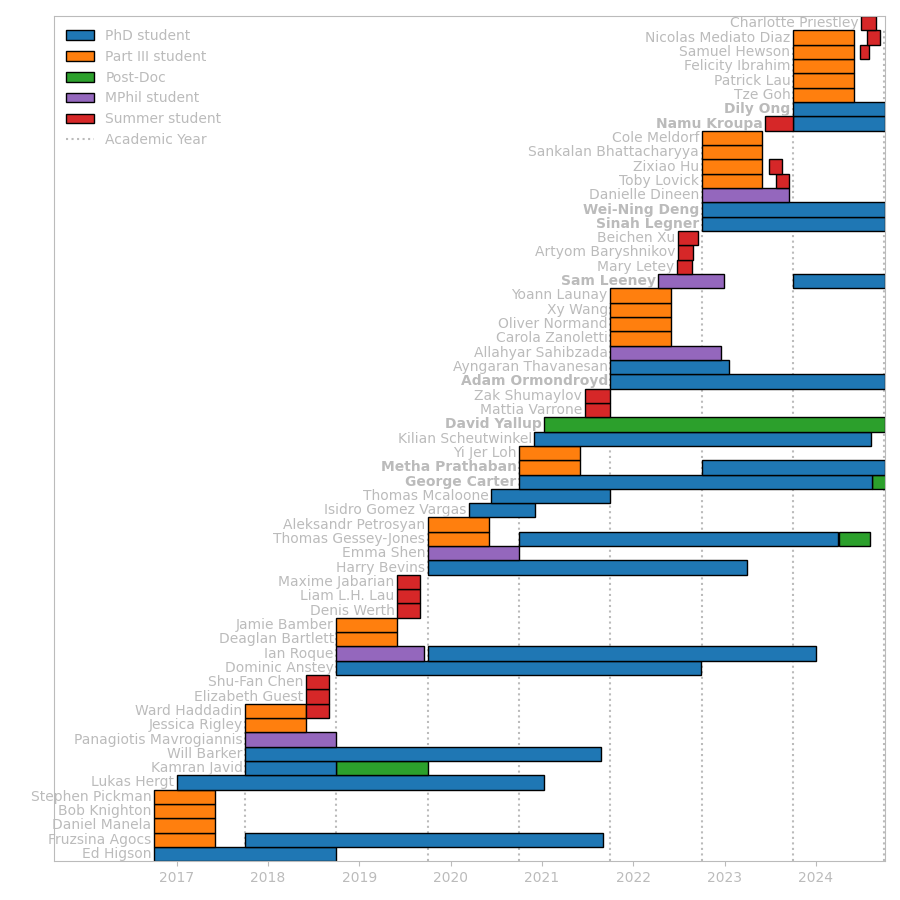
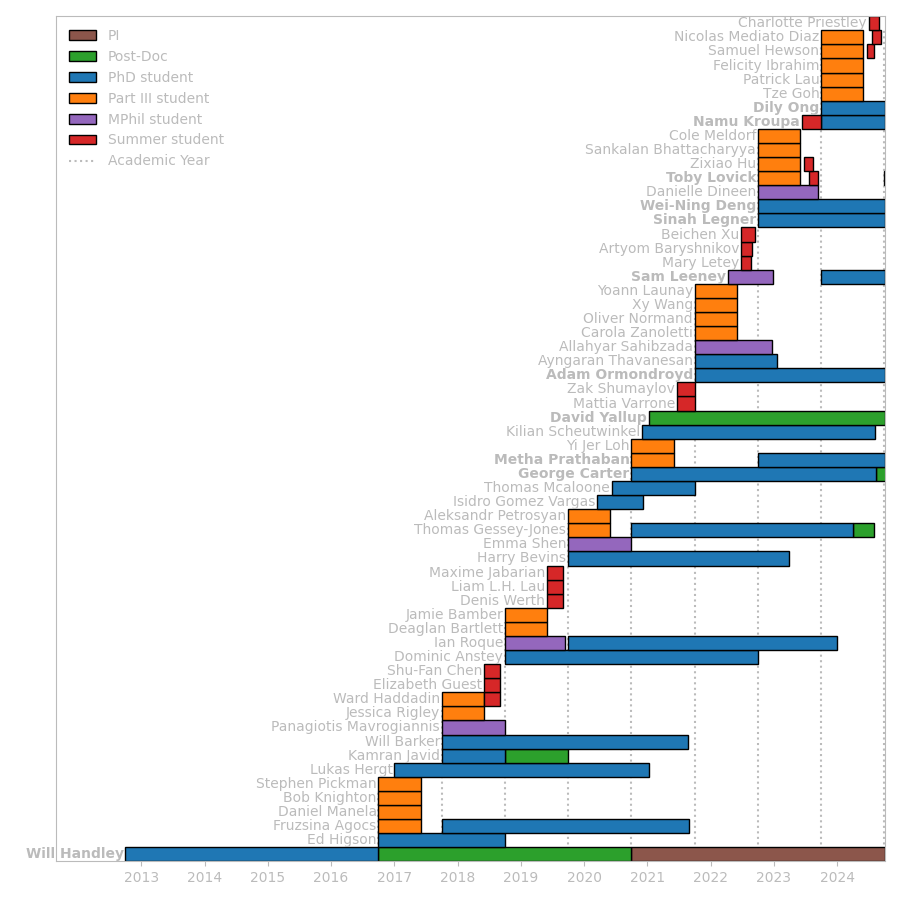
Updated group timeline

Changed region(s): [[0.0311, 0.0, 0.9956, 0.9956], [0.0622, 0.0311, 0.2489, 0.1867]]

diff --git a/assets/group/group.html b/assets/group/group.html
@@ -19,6 +19,35 @@
 }
 </style>
 <div class="wrapper" style="margin-top:30pt">
+  <h1>PI</h1>
+  <div class="grid">
+    <div class="grid-item">
+      <img src="/assets/group/images/will_handley.jpg" />
+    </div>
+    <div class="grid-item">
+      <p>
+        <font size="+2">Will Handley</font>
+      </p>
+      <p>
+        <ul>
+          <li>PI from Oct 2020</li>
+          <li>Post-Doc from Oct 2016 to Oct 2020</li>
+          <li>PhD student from Oct 2012 to Sep 2016</li>
+          <li>
+            <a href="https://arxiv.org/search/?query=handley%2C+w%3B+Handley%2CW&searchtype=author">Group research papers (146)</a>
+          </li>
+          <li>Links:</li>
+          <ul>
+            <li>
+              <a href="https://willhandley.co.uk">Webpage</a>
+            </li>
+          </ul>
+        </ul>
+      </p>
+    </div>
+  </div>
+</div>
+<div class="wrapper" style="margin-top:30pt">
   <h1>Post-Docs</h1>
   <div class="grid">
     <div class="grid-item">
@@ -32,7 +61,7 @@
         <ul>
           <li>Post-Doc from Jan 2021</li>
           <li>
-            <a href="https://arxiv.org/search/?query=handley%2C+w%3B+Yallup%2CD&searchtype=author">Shared research papers (5)</a>
+            <a href="https://arxiv.org/search/?query=handley%2C+w%3B+Yallup%2CD&searchtype=author">Group research papers (5)</a>
           </li>
           <li>Links:</li>
           <ul>
@@ -63,7 +92,7 @@
           <li>PhD student from Oct 2023<ul><li>co-supervised with <a href="http://www.eng.cam.ac.uk/profiles/gc121">Gábor Csányi</a></li></ul></li>
           <li>Summer student from Jun 2023 to Sep 2023</li>
           <li>
-            <a href="https://arxiv.org/search/?query=handley%2C+w%3B+Kroupa%2CN&searchtype=author">Shared research papers (2)</a>
+            <a href="https://arxiv.org/search/?query=handley%2C+w%3B+Kroupa%2CN&searchtype=author">Group research papers (2)</a>
           </li>
         </ul>
       </p>
@@ -93,7 +122,7 @@
           <li>PhD student from Oct 2023<ul><li>co-supervised with <a href="https://www.phy.cam.ac.uk/directory/dr-eloy-de-lera-acedo">Eloy de Lera Acedo</a>, <a href="https://harrybevins.co.uk/">Harry Bevins</a></li></ul></li>
           <li>MPhil student from Apr 2022 to Dec 2022<ul><li>co-supervised with <a href="https://www.phy.cam.ac.uk/directory/dr-eloy-de-lera-acedo">Eloy de Lera Acedo</a></li></ul></li>
           <li>
-            <a href="https://arxiv.org/search/?query=handley%2C+w%3B+Leeney%2CS&searchtype=author">Shared research papers (2)</a>
+            <a href="https://arxiv.org/search/?query=handley%2C+w%3B+Leeney%2CS&searchtype=author">Group research papers (2)</a>
           </li>
           <li>Links:</li>
           <ul>
@@ -132,7 +161,7 @@
           <li>PhD student from Oct 2022</li>
           <li>Part III student from Oct 2020 to Jun 2021</li>
           <li>
-            <a href="https://arxiv.org/search/?query=handley%2C+w%3B+Prathaban%2CM&searchtype=author">Shared research papers (2)</a>
+            <a href="https://arxiv.org/search/?query=handley%2C+w%3B+Prathaban%2CM&searchtype=author">Group research papers (2)</a>
           </li>
         </ul>
       </p>
@@ -148,7 +177,7 @@
         <ul>
           <li>PhD student from Oct 2022</li>
           <li>
-            <a href="https://arxiv.org/search/?query=handley%2C+w%3B+Deng%2CW&searchtype=author">Shared research papers (1)</a>
+            <a href="https://arxiv.org/search/?query=handley%2C+w%3B+Deng%2CW&searchtype=author">Group research papers (1)</a>
           </li>
         </ul>
       </p>
@@ -164,7 +193,7 @@
         <ul>
           <li>PhD student from Oct 2021<ul><li>co-supervised with <a href="https://www.phy.cam.ac.uk/directory/lasenbya">Anthony Lasenby</a>, <a href="https://www.phy.cam.ac.uk/directory/hobsonm">Mike Hobson</a></li></ul></li>
           <li>
-            <a href="https://arxiv.org/search/?query=handley%2C+w%3B+Ormondroyd%2CA&searchtype=author">Shared research papers (1)</a>
+            <a href="https://arxiv.org/search/?query=handley%2C+w%3B+Ormondroyd%2CA&searchtype=author">Group research papers (1)</a>
           </li>
           <li>Links:</li>
           <ul>
@@ -196,7 +225,7 @@
           <li>PhD student from Oct 2020 to Mar 2024<ul><li>co-supervised with <a href="https://www.phy.cam.ac.uk/directory/dr-eloy-de-lera-acedo">Eloy de Lera Acedo</a>, <a href="https://www.ast.cam.ac.uk/people/Anastasia.Fialkov">Anastasia Fialkov</a></li></ul></li>
           <li>Part III student from Oct 2019 to Jun 2020</li>
           <li>
-            <a href="https://arxiv.org/search/?query=handley%2C+w%3B+Gessey-Jones%2CT&searchtype=author">Shared research papers (10)</a>
+            <a href="https://arxiv.org/search/?query=handley%2C+w%3B+Gessey-Jones%2CT&searchtype=author">Group research papers (10)</a>
           </li>
           <li>Links:</li>
           <ul>
@@ -226,7 +255,7 @@
           <li>Post-Doc from Oct 2018 to Oct 2019</li>
           <li>PhD student from Oct 2017 to Sep 2018</li>
           <li>
-            <a href="https://arxiv.org/search/?query=handley%2C+w%3B+Javid%2CK&searchtype=author">Shared research papers (2)</a>
+            <a href="https://arxiv.org/search/?query=handley%2C+w%3B+Javid%2CK&searchtype=author">Group research papers (2)</a>
           </li>
           <li>Links:</li>
           <ul>
@@ -260,7 +289,7 @@
         <ul>
           <li>PhD student from Oct 2021 to Jan 2023<ul><li>co-supervised with <a href="https://www.nottingham.ac.uk/physics/people/david.stefanyszyn">David Stefanyszyn</a></li></ul></li>
           <li>
-            <a href="https://arxiv.org/search/?query=handley%2C+w%3B+Thavanesan%2CA&searchtype=author">Shared research papers (1)</a>
+            <a href="https://arxiv.org/search/?query=handley%2C+w%3B+Thavanesan%2CA&searchtype=author">Group research papers (1)</a>
           </li>
         </ul>
       </p>
@@ -276,7 +305,7 @@
         <ul>
           <li>PhD student from Dec 2020 to Aug 2024<ul><li>co-supervised with <a href="https://www.phy.cam.ac.uk/directory/dr-eloy-de-lera-acedo">Eloy de Lera Acedo</a></li></ul></li>
           <li>
-            <a href="https://arxiv.org/search/?query=handley%2C+w%3B+Scheutwinkel%2CK&searchtype=author">Shared research papers (5)</a>
+            <a href="https://arxiv.org/search/?query=handley%2C+w%3B+Scheutwinkel%2CK&searchtype=author">Group research papers (5)</a>
           </li>
           <li>Links:</li>
           <ul>
@@ -348,7 +377,7 @@
         <ul>
           <li>PhD student from Oct 2019 to Mar 2023<ul><li>co-supervised with <a href="https://www.phy.cam.ac.uk/directory/dr-eloy-de-lera-acedo">Eloy de Lera Acedo</a>, <a href="https://www.ast.cam.ac.uk/people/Anastasia.Fialkov">Anastasia Fialkov</a></li></ul></li>
           <li>
-            <a href="https://arxiv.org/search/?query=handley%2C+w%3B+Bevins%2CH&searchtype=author">Shared research papers (13)</a>
+            <a href="https://arxiv.org/search/?query=handley%2C+w%3B+Bevins%2CH&searchtype=author">Group research papers (13)</a>
           </li>
           <li>Links:</li>
           <ul>
@@ -385,7 +414,7 @@
           <li>PhD student from Oct 2019 to Dec 2023<ul><li>co-supervised with <a href="https://www.phy.cam.ac.uk/staff/dr-nima-razavi-ghods">Nima Razavi-Ghods</a></li></ul></li>
           <li>MPhil student from Oct 2018 to Sep 2019<ul><li>co-supervised with <a href="https://www.phy.cam.ac.uk/staff/dr-nima-razavi-ghods">Nima Razavi-Ghods</a></li></ul></li>
           <li>
-            <a href="https://arxiv.org/search/?query=handley%2C+w%3B+Roque%2CI&searchtype=author">Shared research papers (4)</a>
+            <a href="https://arxiv.org/search/?query=handley%2C+w%3B+Roque%2CI&searchtype=author">Group research papers (4)</a>
           </li>
           <li>Links:</li>
           <ul>
@@ -411,7 +440,7 @@
         <ul>
           <li>PhD student from Oct 2018 to Sep 2022<ul><li>co-supervised with <a href="https://www.phy.cam.ac.uk/directory/dr-eloy-de-lera-acedo">Eloy de Lera Acedo</a></li></ul></li>
           <li>
-            <a href="https://arxiv.org/search/?query=handley%2C+w%3B+Anstey%2CD&searchtype=author">Shared research papers (8)</a>
+            <a href="https://arxiv.org/search/?query=handley%2C+w%3B+Anstey%2CD&searchtype=author">Group research papers (8)</a>
           </li>
           <li>Subsequent career:</li>
           <ul>
@@ -432,7 +461,7 @@
           <li>PhD student from Oct 2017 to Sep 2021<ul><li>co-supervised with <a href="https://www.phy.cam.ac.uk/directory/lasenbya">Anthony Lasenby</a>, <a href="https://www.phy.cam.ac.uk/directory/hobsonm">Mike Hobson</a></li></ul></li>
           <li>Part III student from Oct 2016 to Jun 2017</li>
           <li>
-            <a href="https://arxiv.org/search/?query=handley%2C+w%3B+Agocs%2CF&searchtype=author">Shared research papers (6)</a>
+            <a href="https://arxiv.org/search/?query=handley%2C+w%3B+Agocs%2CF&searchtype=author">Group research papers (6)</a>
           </li>
           <li>Links:</li>
           <ul>
@@ -462,7 +491,7 @@
         <ul>
           <li>PhD student from Oct 2017 to Aug 2021<ul><li>co-supervised with <a href="https://www.phy.cam.ac.uk/directory/lasenbya">Anthony Lasenby</a>, <a href="https://www.phy.cam.ac.uk/directory/hobsonm">Mike Hobson</a></li></ul></li>
           <li>
-            <a href="https://arxiv.org/search/?query=handley%2C+w%3B+Barker%2CW&searchtype=author">Shared research papers (4)</a>
+            <a href="https://arxiv.org/search/?query=handley%2C+w%3B+Barker%2CW&searchtype=author">Group research papers (4)</a>
           </li>
           <li>Links:</li>
           <ul>
@@ -489,7 +518,7 @@
         <ul>
           <li>PhD student from Jan 2017 to Jan 2021<ul><li>co-supervised with <a href="https://www.phy.cam.ac.uk/directory/lasenbya">Anthony Lasenby</a>, <a href="https://www.phy.cam.ac.uk/directory/hobsonm">Mike Hobson</a></li></ul></li>
           <li>
-            <a href="https://arxiv.org/search/?query=handley%2C+w%3B+Hergt%2CL&searchtype=author">Shared research papers (5)</a>
+            <a href="https://arxiv.org/search/?query=handley%2C+w%3B+Hergt%2CL&searchtype=author">Group research papers (5)</a>
           </li>
           <li>Links:</li>
           <ul>
@@ -515,7 +544,7 @@
         <ul>
           <li>PhD student from Oct 2016 to Oct 2018<ul><li>co-supervised with <a href="https://www.phy.cam.ac.uk/directory/lasenbya">Anthony Lasenby</a>, <a href="https://www.phy.cam.ac.uk/directory/hobsonm">Mike Hobson</a></li></ul></li>
           <li>
-            <a href="https://arxiv.org/search/?query=handley%2C+w%3B+Higson%2CE&searchtype=author">Shared research papers (6)</a>
+            <a href="https://arxiv.org/search/?query=handley%2C+w%3B+Higson%2CE&searchtype=author">Group research papers (6)</a>
           </li>
           <li>Links:</li>
           <ul>
@@ -547,7 +576,7 @@
         <ul>
           <li>MPhil student from Oct 2022 to Sep 2023</li>
           <li>
-            <a href="https://arxiv.org/search/?query=handley%2C+w%3B+Dineen%2CD&searchtype=author">Shared research papers (1)</a>
+            <a href="https://arxiv.org/search/?query=handley%2C+w%3B+Dineen%2CD&searchtype=author">Group research papers (1)</a>
           </li>
           <li>Links:</li>
           <ul>
@@ -589,7 +618,7 @@
         <ul>
           <li>MPhil student from Oct 2019 to Sep 2020<ul><li>co-supervised with <a href="https://www.phy.cam.ac.uk/directory/dr-eloy-de-lera-acedo">Eloy de Lera Acedo</a>, <a href="https://www.ast.cam.ac.uk/people/Anastasia.Fialkov">Anastasia Fialkov</a></li></ul></li>
           <li>
-            <a href="https://arxiv.org/search/?query=handley%2C+w%3B+Shen%2CE&searchtype=author">Shared research papers (4)</a>
+            <a href="https://arxiv.org/search/?query=handley%2C+w%3B+Shen%2CE&searchtype=author">Group research papers (4)</a>
           </li>
           <li>Subsequent career:</li>
           <ul>
@@ -658,7 +687,7 @@
           <li>Part III student from Oct 2022 to Jun 2023</li>
           <li>Summer student from Jun 2023 to Aug 2023</li>
           <li>
-            <a href="https://arxiv.org/search/?query=handley%2C+w%3B+Hu%2CZ&searchtype=author">Shared research papers (1)</a>
+            <a href="https://arxiv.org/search/?query=handley%2C+w%3B+Hu%2CZ&searchtype=author">Group research papers (1)</a>
           </li>
         </ul>
       </p>
@@ -803,7 +832,7 @@
         <ul>
           <li>Part III student from Oct 2019 to Jun 2020</li>
           <li>
-            <a href="https://arxiv.org/search/?query=handley%2C+w%3B+Petrosyan%2CA&searchtype=author">Shared research papers (1)</a>
+            <a href="https://arxiv.org/search/?query=handley%2C+w%3B+Petrosyan%2CA&searchtype=author">Group research papers (1)</a>
           </li>
           <li>Subsequent career:</li>
           <ul>
@@ -823,7 +852,7 @@
         <ul>
           <li>Part III student from Oct 2018 to Jun 2019</li>
           <li>
-            <a href="https://arxiv.org/search/?query=handley%2C+w%3B+Bartlett%2CD&searchtype=author">Shared research papers (2)</a>
+            <a href="https://arxiv.org/search/?query=handley%2C+w%3B+Bartlett%2CD&searchtype=author">Group research papers (2)</a>
           </li>
           <li>Links:</li>
           <ul>
@@ -853,7 +882,7 @@
         <ul>
           <li>Part III student from Oct 2018 to Jun 2019</li>
           <li>
-            <a href="https://arxiv.org/search/?query=handley%2C+w%3B+Bamber%2CJ&searchtype=author">Shared research papers (1)</a>
+            <a href="https://arxiv.org/search/?query=handley%2C+w%3B+Bamber%2CJ&searchtype=author">Group research papers (1)</a>
           </li>
           <li>Subsequent career:</li>
           <ul>
@@ -897,7 +926,7 @@
           <li>Part III student from Oct 2017 to Jun 2018</li>
           <li>Summer student from Jun 2018 to Sep 2018</li>
           <li>
-            <a href="https://arxiv.org/search/?query=handley%2C+w%3B+Haddadin%2CW&searchtype=author">Shared research papers (1)</a>
+            <a href="https://arxiv.org/search/?query=handley%2C+w%3B+Haddadin%2CW&searchtype=author">Group research papers (1)</a>
           </li>
           <li>Subsequent career:</li>
           <ul>
@@ -978,7 +1007,7 @@
         <ul>
           <li>Summer student from Jun 2022 to Aug 2022</li>
           <li>
-            <a href="https://arxiv.org/search/?query=handley%2C+w%3B+Baryshnikov%2CA&searchtype=author">Shared research papers (1)</a>
+            <a href="https://arxiv.org/search/?query=handley%2C+w%3B+Baryshnikov%2CA&searchtype=author">Group research papers (1)</a>
           </li>
           <li>Links:</li>
           <ul>
@@ -1021,7 +1050,7 @@
         <ul>
           <li>Summer student from Jun 2022 to Aug 2022</li>
           <li>
-            <a href="https://arxiv.org/search/?query=handley%2C+w%3B+Letey%2CM&searchtype=author">Shared research papers (1)</a>
+            <a href="https://arxiv.org/search/?query=handley%2C+w%3B+Letey%2CM&searchtype=author">Group research papers (1)</a>
           </li>
           <li>Links:</li>
           <ul>
@@ -1061,7 +1090,7 @@
         <ul>
           <li>Summer student from Jun 2021 to Sep 2021</li>
           <li>
-            <a href="https://arxiv.org/search/?query=handley%2C+w%3B+Shumaylov%2CZ&searchtype=author">Shared research papers (2)</a>
+            <a href="https://arxiv.org/search/?query=handley%2C+w%3B+Shumaylov%2CZ&searchtype=author">Group research papers (2)</a>
           </li>
           <li>Subsequent career:</li>
           <ul>
@@ -1081,7 +1110,7 @@
         <ul>
           <li>Summer student from Jun 2019 to Sep 2019</li>
           <li>
-            <a href="https://arxiv.org/search/?query=handley%2C+w%3B+Werth%2CD&searchtype=author">Shared research papers (1)</a>
+            <a href="https://arxiv.org/search/?query=handley%2C+w%3B+Werth%2CD&searchtype=author">Group research papers (1)</a>
           </li>
           <li>Subsequent career:</li>
           <ul>
@@ -1163,7 +1192,7 @@
         <ul>
           <li>Summer student from Jun 2018 to Sep 2018</li>
           <li>
-            <a href="https://arxiv.org/search/?query=handley%2C+w%3B+Chen%2CS&searchtype=author">Shared research papers (1)</a>
+            <a href="https://arxiv.org/search/?query=handley%2C+w%3B+Chen%2CS&searchtype=author">Group research papers (1)</a>
           </li>
           <li>Subsequent career:</li>
           <ul>

diff --git a/_layouts/group.html b/_layouts/group.html
@@ -14,6 +14,6 @@ layout: default
 </article>
 </div>
 
-{% include_relative /assets/students/students.html %}
+{% include_relative /assets/group/group.html %}
 
 <div>

diff --git a/assets/group/timeline.py b/assets/group/timeline.py
@@ -20,7 +20,8 @@ colors = {'partiii': 'C1',
           'phd': 'C0',
           'postdoc': 'C2',
           'summer': 'C3',
-          'mphil': 'C4'}
+          'mphil': 'C4',
+          'pi': 'C5'}
 
 fig, ax = plt.subplots()
 rects = {}

diff --git a/group.md b/group.md
@@ -4,5 +4,5 @@ title: The Group
 permalink: /group/
 ---
 
-![Timeline of students and postdocs](/assets/students/students.png)
+![Timeline of students and postdocs](/assets/group/group.png)
 
